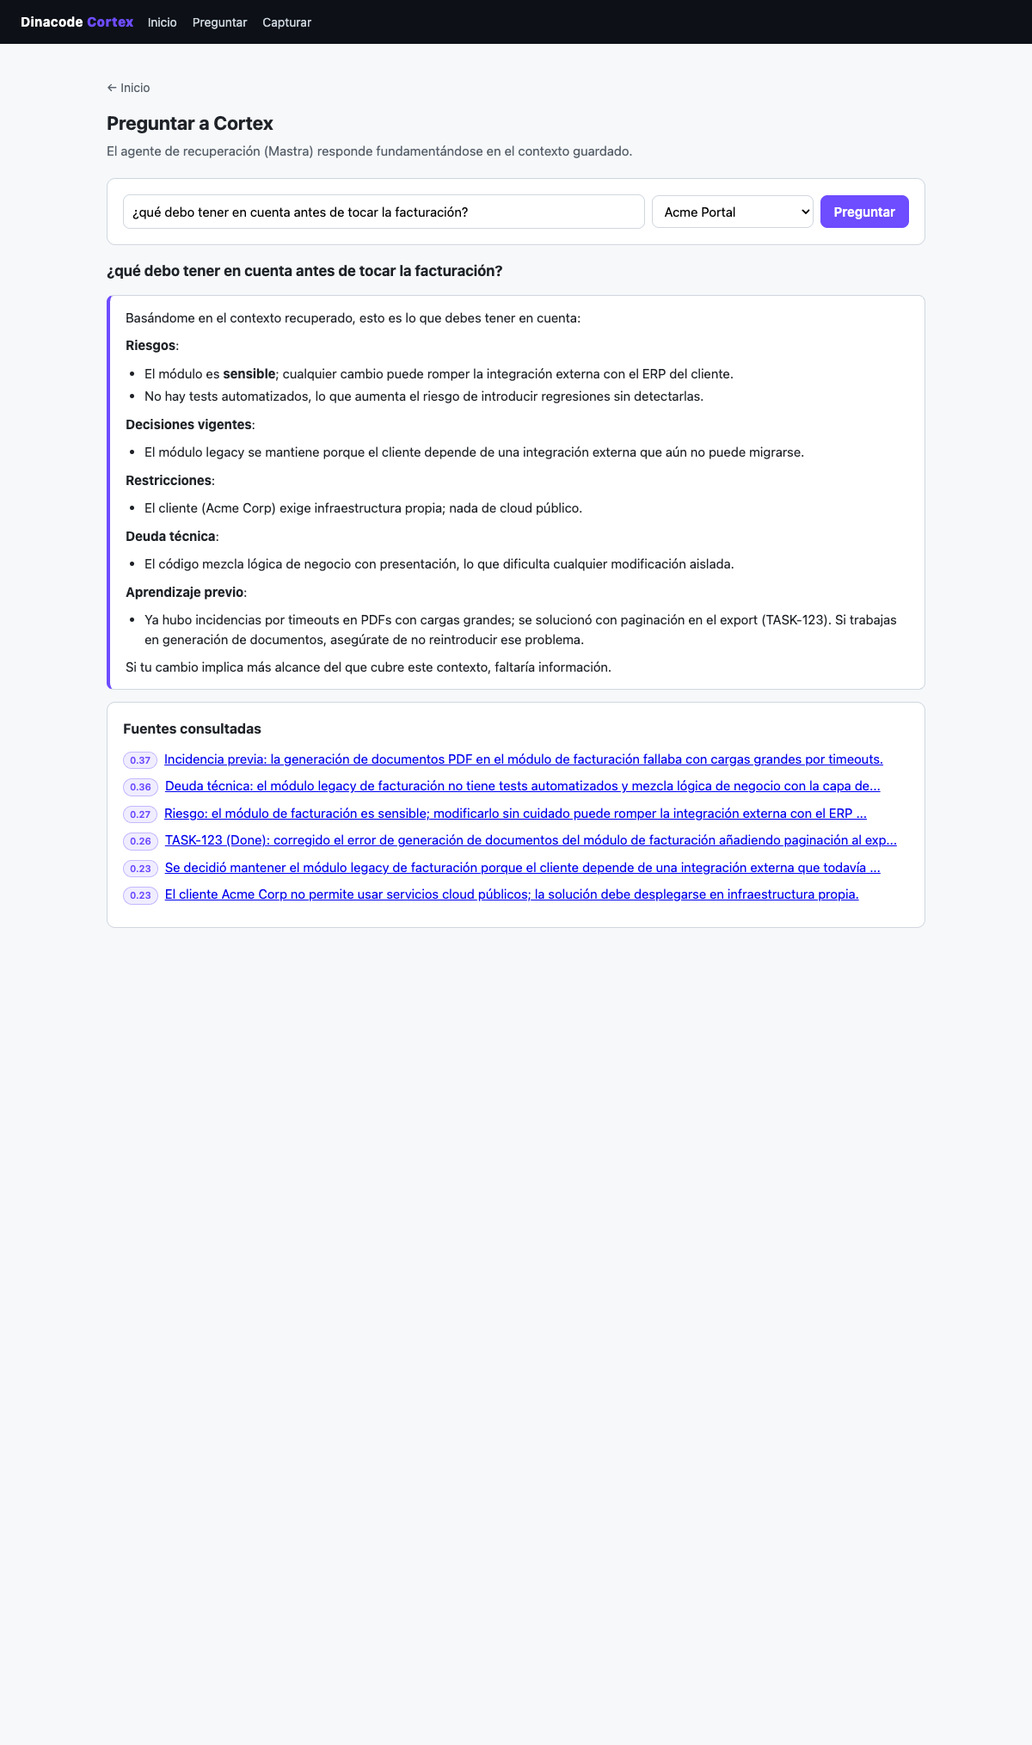
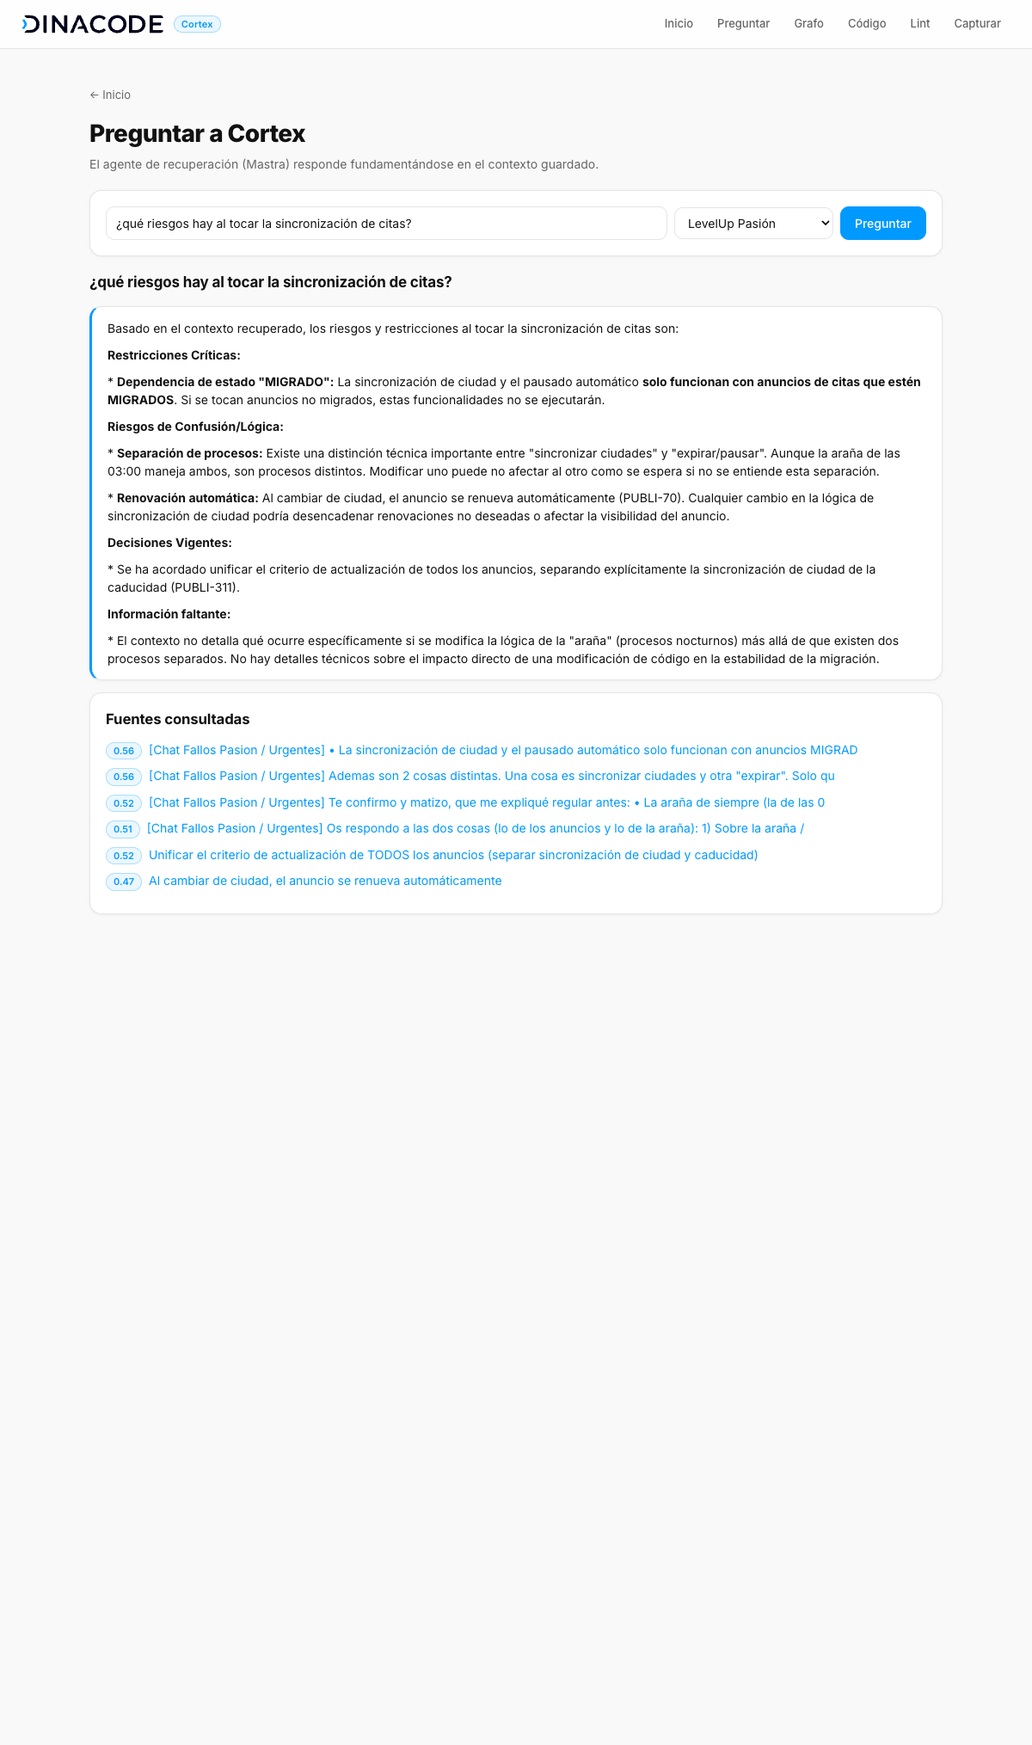
feat(web): aplicar el sistema de diseño de Dinacode a la UI
Tokens extraídos del Dinacode Design System (Open Design / dinacode-web):
azul eléctrico #0099ff, tinta de marca #01001c, Inter + JetBrains Mono, rampa de
radios/espaciado/sombras y componentes (cards, botones, chips, inputs). Cabecera
con el logo Dinacode + tag "Cortex", tema claro, lienzo del grafo en tinta de
marca. Acentos de score/relaciones al azul de marca. Capturas del README
regeneradas (dashboard, ask, grafo, lint, código, pack point-in-time);
eliminadas las obsoletas (Acme/estilo viejo). ADR-0013.

diff --git a/apps/web/src/views.ts b/apps/web/src/views.ts
@@ -33,6 +33,19 @@ export function mdLite(text: string): string {
   return out.join("\n");
 }
 
+// Logo de marca Dinacode (wordmark). Primer glifo en azul, resto en tinta de marca.
+const DINACODE_LOGO = `<svg viewBox="0 0 691.7 90.7" height="22" role="img" aria-label="Dinacode" style="display:block">
+<path fill="#0099FF" d="M8.1,25.9c-0.6-1.1,0.2-2.4,1.4-2.4H18c0.6,0,1.1,0.3,1.4,0.8L28.9,41c0.8,1.4,1.2,3,1.2,4.6s-0.4,3.2-1.2,4.6l-9.5,16.7c-0.3,0.5-0.8,0.8-1.4,0.8H9.5c-1.2,0-2-1.3-1.4-2.4l9.4-16.5c0.6-1,0.8-2.1,0.8-3.2c0-1.1-0.3-2.2-0.8-3.2L8.1,25.9z"/>
+<path fill="var(--brand-ink)" d="M111.1,3.6h12.1c0.9,0,1.6,0.7,1.6,1.6v80.4c0,0.9-0.7,1.6-1.6,1.6h-12.1c-0.9,0-1.6-0.7-1.6-1.6V5.2C109.5,4.3,110.2,3.6,111.1,3.6z"/>
+<path fill="var(--brand-ink)" d="M223.2,5.2v80.4c0,0.9-0.7,1.6-1.6,1.6h-10.2c-0.5,0-0.9-0.2-1.2-0.6L168,34.1c-0.9-1.2-2.8-0.5-2.8,1v50.4c0,0.9-0.7,1.6-1.6,1.6h-12c-0.9,0-1.6-0.7-1.6-1.6V5.2c0-0.9,0.7-1.6,1.6-1.6h10.2c0.5,0,0.9,0.2,1.2,0.6l42.1,52.5c0.9,1.2,2.8,0.5,2.8-1V5.2c0-0.9,0.7-1.6,1.6-1.6h12C222.5,3.6,223.2,4.3,223.2,5.2z"/>
+<path fill="var(--brand-ink)" d="M353.8,82.8c-6.7-3.7-12-8.8-15.8-15.3c-3.8-6.5-5.7-13.9-5.7-22.1c0-8.2,1.9-15.6,5.8-22.1c3.8-6.5,9.1-11.6,15.8-15.3c6.7-3.7,14.2-5.6,22.5-5.6c6.7,0,12.9,1.2,18.5,3.6c5.1,2.2,9.4,5.2,13.1,9.2c0.6,0.7,0.6,1.7-0.1,2.3l-7.6,7.3c-0.6,0.6-1.6,0.6-2.2,0c-5.8-5.8-12.7-8.7-20.9-8.7c-5.7,0-10.7,1.3-15.2,3.8c-4.5,2.5-8,6-10.5,10.4c-2.5,4.5-3.8,9.5-3.8,15.2c0,5.7,1.3,10.7,3.8,15.2c2.5,4.5,6,7.9,10.5,10.4c4.5,2.5,9.5,3.8,15.2,3.8c8.2,0,15.2-2.9,20.9-8.8c0.6-0.6,1.6-0.6,2.2,0l7.6,7.4c0.6,0.6,0.7,1.6,0.1,2.3c-3.6,4-8,7-13.1,9.2c-5.6,2.4-11.8,3.6-18.5,3.6C368,88.3,360.5,86.5,353.8,82.8z"/>
+<path fill="var(--brand-ink)" d="M440.7,82.8c-6.8-3.7-12-8.8-15.9-15.4c-3.8-6.6-5.8-13.9-5.8-22s1.9-15.5,5.8-22c3.8-6.6,9.1-11.7,15.9-15.4c6.7-3.7,14.3-5.6,22.7-5.6c8.4,0,16,1.9,22.7,5.6c6.7,3.7,12,8.8,15.9,15.3c3.8,6.5,5.8,13.9,5.8,22.1c0,8.2-1.9,15.6-5.8,22.1c-3.8,6.5-9.1,11.6-15.9,15.3c-6.8,3.7-14.3,5.6-22.7,5.6C455,88.3,447.5,86.5,440.7,82.8z M478.3,71c4.4-2.5,7.8-6,10.4-10.5c2.5-4.5,3.8-9.5,3.8-15.1c0-5.6-1.3-10.6-3.8-15.1c-2.5-4.5-6-8-10.4-10.5c-4.4-2.5-9.3-3.8-14.8-3.8c-5.5,0-10.4,1.3-14.8,3.8c-4.4,2.5-7.8,6-10.4,10.5c-2.5,4.5-3.8,9.5-3.8,15.1c0,5.6,1.3,10.6,3.8,15.1c2.5,4.5,6,8,10.4,10.5c4.4,2.5,9.3,3.8,14.8,3.8C468.9,74.7,473.9,73.5,478.3,71z"/>
+<path fill="var(--brand-ink)" d="M682.2,74c0,0-19.8,0-47,0c-0.9,0-1.6-0.7-1.6-1.6V52.7c0-0.9,0.7-1.6,1.6-1.6h36.6c0.9,0,1.6-0.7,1.6-1.6v-9.5c0-0.9-0.7-1.6-1.6-1.6h-36.6c-0.9,0-1.6-0.7-1.6-1.6V18.3c0-0.9,0.7-1.6,1.6-1.6c27.1,0,47,0,47,0c1.2,0,2-1.4,1.4-2.4l-3.5-6.1c-1.6-2.8-4.6-4.6-7.8-4.6l-52.4,0c-0.9,0-1.6,0.7-1.6,1.6v80.4c0,0.9,0.7,1.6,1.6,1.6h52.7l0,0c3.1-0.1,6-1.8,7.5-4.6l3.5-6.1C684.2,75.4,683.4,74,682.2,74z"/>
+<path fill="var(--brand-ink)" d="M325.2,85.4l-36-80.9c-0.3-0.6-0.8-1-1.5-1h-13.1c-0.6,0-1.2,0.4-1.5,1l-35.9,80.9c-0.5,1.1,0.3,2.3,1.5,2.3h12.4c0.6,0,1.2-0.4,1.5-1l27-64.1c0.6-1.3,2.4-1.3,2.9,0L296.7,56h-10.7c-5.9,0-11.1,3.5-13.5,9l-0.4,1c-0.5,1.1,0.3,2.3,1.5,2.3h28.2l7.9,18.5c0.3,0.6,0.8,1,1.5,1h12.6C324.9,87.7,325.7,86.5,325.2,85.4z"/>
+<path fill="var(--brand-ink)" d="M84.6,23.4c-3.8-6.3-9.1-11.2-15.9-14.7c-6.8-3.5-14.6-5.2-23.4-5.2H20.6c-1.3,0-2,1.4-1.3,2.5l4.6,7c1.5,2.2,4,3.6,6.6,3.6h14.1c6,0,11.4,1.2,15.9,3.5c4.6,2.3,8.1,5.7,10.6,10c2.5,4.3,3.7,9.4,3.7,15.1c0,5.7-1.2,10.8-3.7,15.1c-2.5,4.3-6,7.7-10.6,10C56,72.8,50.7,74,44.6,74H30.6c-2.7,0-5.1,1.3-6.6,3.6l-4.6,7c-0.7,1.1,0,2.5,1.3,2.5h24.7c8.8,0,16.6-1.7,23.4-5.2c6.8-3.5,12.1-8.4,15.9-14.7c3.8-6.3,5.7-13.6,5.7-21.9C90.3,37.1,88.4,29.8,84.6,23.4z"/>
+<path fill="var(--brand-ink)" d="M519.3,5.2c0-0.9,0.7-1.6,1.6-1.6h32.7c8.8,0,16.6,1.7,23.4,5.2c6.8,3.5,12.1,8.4,15.9,14.7c3.8,6.3,5.7,13.6,5.7,21.9c0,8.3-1.9,15.6-5.7,21.9c-3.8,6.3-9.1,11.2-15.9,14.7c-6.8,3.5-14.6,5.2-23.4,5.2h-32.7c-0.9,0-1.6-0.7-1.6-1.6V5.2z M552.9,74c6,0,11.4-1.2,15.9-3.5c4.6-2.3,8.1-5.7,10.6-10c2.5-4.3,3.7-9.4,3.7-15.1c0-5.7-1.2-10.8-3.7-15.1c-2.5-4.3-6-7.7-10.6-10c-4.6-2.3-9.9-3.5-15.9-3.5h-16.7c-0.9,0-1.6,0.7-1.6,1.6v54.1c0,0.9,0.7,1.6,1.6,1.6H552.9z"/>
+</svg>`;
+
 const STATUS_COLORS: Record<string, string> = {
   validated: "#1a7f37",
   verified: "#1a7f37",
@@ -41,10 +54,11 @@ const STATUS_COLORS: Record<string, string> = {
   rejected: "#cf222e",
   obsolete: "#6e7781",
   superseded: "#8250df",
+  historical: "#6e7781",
 };
 
 const TYPE_COLORS: Record<string, string> = {
-  decision: "#0969da",
+  decision: "#0099ff",
   constraint: "#9a6700",
   incident: "#cf222e",
   risk: "#bc4c00",
@@ -54,7 +68,7 @@ const TYPE_COLORS: Record<string, string> = {
 };
 
 export function badge(text: string, color: string): string {
-  return `<span class="badge" style="background:${color}1a;color:${color};border:1px solid ${color}55">${esc(text)}</span>`;
+  return `<span class="badge" style="background:${color}14;color:${color};border:1px solid ${color}44">${esc(text)}</span>`;
 }
 
 export function statusBadge(status: string): string {
@@ -88,54 +102,117 @@ export function layout(title: string, body: string): string {
   <meta charset="utf-8">
   <meta name="viewport" content="width=device-width, initial-scale=1">
   <title>${esc(title)} · Dinacode Cortex</title>
+  <link rel="preconnect" href="https://fonts.googleapis.com">
+  <link href="https://fonts.googleapis.com/css2?family=Inter:wght@400;500;600;700;800&family=JetBrains+Mono:wght@400;500;600&display=swap" rel="stylesheet">
   <style>
-    :root { --bg:#f6f8fa; --fg:#1f2328; --muted:#57606a; --line:#d0d7de; --accent:#6e4cff; }
-    * { box-sizing: border-box; }
-    body { margin:0; font:15px/1.5 -apple-system,BlinkMacSystemFont,"Segoe UI",Roboto,sans-serif; color:var(--fg); background:var(--bg); }
-    header { background:#0d1117; color:#fff; padding:14px 24px; display:flex; align-items:center; gap:16px; }
-    header .logo { font-weight:700; letter-spacing:.5px; }
-    header .logo b { color:var(--accent); }
-    header nav a { color:#c9d1d9; text-decoration:none; margin-right:14px; font-size:14px; }
-    header nav a:hover { color:#fff; }
-    main { max-width:1000px; margin:0 auto; padding:24px; }
-    h1 { font-size:22px; margin:0 0 4px; }
-    .sub { color:var(--muted); margin:0 0 20px; }
-    .grid { display:grid; grid-template-columns:repeat(auto-fill,minmax(280px,1fr)); gap:14px; }
-    .card { display:block; background:#fff; border:1px solid var(--line); border-radius:10px; padding:14px; text-decoration:none; color:inherit; transition:.1s; }
-    .card:hover { border-color:var(--accent); box-shadow:0 2px 10px #0001; }
-    .card h3 { margin:8px 0 6px; font-size:15px; }
-    .card p { margin:0; color:var(--muted); font-size:13px; display:-webkit-box; -webkit-line-clamp:3; -webkit-box-orient:vertical; overflow:hidden; }
-    .card .src { margin-top:8px; font-size:12px; color:var(--muted); }
-    .badge { display:inline-block; font-size:11px; padding:1px 7px; border-radius:20px; margin-right:4px; font-weight:600; }
+    /* === Dinacode Design System — tokens === */
+    :root {
+      --color-primary:#0099ff; --color-primary-hover:#0077cc; --brand-ink:#01001c;
+      --color-text:#111111; --color-text-muted:#666666; --color-muted:#999999;
+      --color-background:#ffffff; --color-background-muted:#f9f9f9; --color-border:#e5e5e5;
+      --primary-soft:color-mix(in srgb, var(--color-primary) 8%, var(--color-background));
+      --primary-ring:color-mix(in srgb, var(--color-primary) 45%, transparent);
+      --font-sans:"Inter",-apple-system,BlinkMacSystemFont,"Segoe UI",system-ui,sans-serif;
+      --font-mono:"JetBrains Mono",ui-monospace,SFMono-Regular,Menlo,monospace;
+      --radius-sm:6px; --radius-md:8px; --radius-lg:10px; --radius-xl:14px; --radius-2xl:18px; --radius-full:9999px;
+      --shadow-sm:0 1px 3px rgba(0,0,0,.05); --shadow-md:0 8px 24px -8px rgba(0,0,0,.12);
+      --shadow-pill:0 8px 24px -8px rgba(0,0,0,.12);
+      --ease-brand:cubic-bezier(.22,1,.36,1); --dur-fast:140ms;
+    }
+    * { box-sizing:border-box; }
+    body { margin:0; font-family:var(--font-sans); font-size:14px; line-height:1.5;
+      color:var(--color-text); background:var(--color-background-muted);
+      -webkit-font-smoothing:antialiased; -moz-osx-font-smoothing:grayscale; }
+    h1 { font-size:1.75rem; font-weight:800; letter-spacing:-0.02em; margin:0 0 4px; }
+    h2 { font-size:1.05rem; font-weight:700; letter-spacing:-0.01em; margin:0 0 12px; }
+    h3 { font-size:.95rem; font-weight:600; margin:8px 0 6px; }
+    p { text-wrap:pretty; }
+    a { color:var(--color-primary); text-decoration:none; text-underline-offset:2px; }
+    a:hover { color:var(--color-primary-hover); }
+    code,pre,kbd { font-family:var(--font-mono); }
+    :focus-visible { outline:none; box-shadow:0 0 0 3px var(--primary-ring); border-radius:var(--radius-sm); }
+    ::selection { background:color-mix(in srgb,var(--color-primary) 15%,transparent); }
+
+    /* === Header (nav glass, firma de marca) === */
+    header { position:sticky; top:0; z-index:10;
+      display:flex; align-items:center; gap:20px; padding:12px 24px;
+      background:color-mix(in srgb,var(--color-background) 80%,transparent);
+      backdrop-filter:blur(12px); -webkit-backdrop-filter:blur(12px);
+      border-bottom:1px solid var(--color-border); }
+    header .brand { display:flex; align-items:center; gap:10px; }
+    header .brand .logo { height:22px; }
+    header .brand .tag { font-size:11px; font-weight:600; color:var(--color-primary);
+      background:var(--primary-soft); border:1px solid color-mix(in srgb,var(--color-primary) 30%,transparent);
+      padding:1px 8px; border-radius:var(--radius-full); letter-spacing:.02em; }
+    header nav { display:flex; gap:4px; margin-left:auto; }
+    header nav a { color:var(--color-text-muted); font-size:13px; font-weight:500;
+      padding:6px 12px; border-radius:var(--radius-md); transition:all var(--dur-fast) var(--ease-brand); }
+    header nav a:hover { color:var(--color-text); background:var(--color-background-muted); }
+
+    main { max-width:1040px; margin:0 auto; padding:28px 24px 64px; }
+    .sub { color:var(--color-text-muted); margin:0 0 20px; }
+
+    /* === Cards & panels === */
+    .grid { display:grid; grid-template-columns:repeat(auto-fill,minmax(290px,1fr)); gap:14px; }
+    .card { display:block; background:var(--color-background); border:1px solid var(--color-border);
+      border-radius:var(--radius-xl); padding:16px; color:inherit; box-shadow:var(--shadow-sm);
+      transition:all var(--dur-fast) var(--ease-brand); }
+    .card:hover { border-color:var(--color-primary); box-shadow:var(--shadow-md); transform:translateY(-1px); }
+    .card h3 { margin:8px 0 6px; }
+    .card p { margin:0; color:var(--color-text-muted); font-size:13px;
+      display:-webkit-box; -webkit-line-clamp:3; -webkit-box-orient:vertical; overflow:hidden; }
+    .card .src { margin-top:8px; font-size:12px; color:var(--color-muted); }
     .card-head { margin-bottom:4px; }
-    .panel { background:#fff; border:1px solid var(--line); border-radius:10px; padding:18px; margin-bottom:18px; }
-    .panel h2 { margin:0 0 12px; font-size:16px; }
+    .panel { background:var(--color-background); border:1px solid var(--color-border);
+      border-radius:var(--radius-xl); padding:18px; margin-bottom:18px; box-shadow:var(--shadow-sm); }
+
+    /* === Badges / chips === */
+    .badge { display:inline-block; font-size:11px; padding:1px 8px; border-radius:var(--radius-full);
+      margin-right:4px; font-weight:600; }
+
+    /* === Forms === */
     form.row { display:flex; gap:8px; flex-wrap:wrap; align-items:center; }
-    input[type=text], select, textarea { font:inherit; padding:8px 10px; border:1px solid var(--line); border-radius:8px; background:#fff; }
-    input[type=text] { flex:1; min-width:200px; }
-    textarea { width:100%; min-height:80px; }
-    button { font:inherit; font-weight:600; padding:8px 16px; border:0; border-radius:8px; background:var(--accent); color:#fff; cursor:pointer; }
-    button.secondary { background:#eaeef2; color:var(--fg); }
+    input[type=text],input[type=date],select,textarea { font:inherit; padding:8px 11px;
+      border:1px solid var(--color-border); border-radius:var(--radius-lg); background:var(--color-background);
+      color:var(--color-text); }
+    input[type=text] { flex:1; min-width:220px; }
+    input::placeholder { color:var(--color-muted); }
+    input:focus-visible,select:focus-visible,textarea:focus-visible { border-color:var(--color-primary); box-shadow:0 0 0 3px var(--primary-ring); }
+    textarea { width:100%; min-height:84px; font-family:var(--font-sans); }
+    button { font:inherit; font-weight:500; padding:8px 16px; border:1px solid transparent;
+      border-radius:var(--radius-lg); background:var(--color-primary); color:#fff; cursor:pointer;
+      transition:all var(--dur-fast) var(--ease-brand); }
+    button:hover { background:var(--color-primary-hover); }
+    button:active { transform:translateY(1px); }
+    button.secondary { background:var(--color-background); color:var(--color-text); border-color:var(--color-border); }
+    button.secondary:hover { background:var(--color-background-muted); }
+
+    /* === Misc === */
     .meta { display:grid; grid-template-columns:140px 1fr; gap:6px 12px; margin:14px 0; }
-    .meta dt { color:var(--muted); }
-    .content-block { white-space:pre-wrap; background:var(--bg); border:1px solid var(--line); border-radius:8px; padding:14px; }
-    .answer { background:#fff; border:1px solid var(--line); border-left:4px solid var(--accent); border-radius:8px; padding:4px 18px; margin:14px 0; }
-    .answer p { margin:10px 0; }
+    .meta dt { color:var(--color-text-muted); }
+    .content-block { white-space:pre-wrap; background:var(--color-background-muted);
+      border:1px solid var(--color-border); border-radius:var(--radius-md); padding:14px; font-family:var(--font-mono); font-size:13px; }
+    .answer { background:var(--color-background); border:1px solid var(--color-border);
+      border-left:3px solid var(--color-primary); border-radius:var(--radius-xl); padding:4px 18px; margin:14px 0; box-shadow:var(--shadow-sm); }
+    .answer p { margin:10px 0; color:var(--color-text); }
     .answer ul { margin:10px 0; padding-left:22px; }
     .answer li { margin:4px 0; }
-    .warn { background:#fff8c5; border:1px solid #d4a72c66; border-radius:8px; padding:12px; margin:10px 0; }
-    .warn.contradiction { background:#ffebe9; border-color:#cf222e66; }
-    .tags a { font-size:13px; color:var(--accent); text-decoration:none; margin-right:10px; }
+    .warn { background:#fff8e6; border:1px solid #d4a72c55; border-radius:var(--radius-md); padding:12px; margin:10px 0; }
+    .warn.contradiction { background:#ffeceb; border-color:#cf222e55; }
+    .tags a { font-size:13px; color:var(--color-primary); margin-right:10px; }
     .filters { margin-bottom:16px; }
-    .pill { display:inline-block; padding:3px 12px; border:1px solid var(--line); border-radius:20px; text-decoration:none; color:var(--muted); font-size:13px; margin:0 4px 4px 0; background:#fff; }
-    .pill.active { background:var(--accent); color:#fff; border-color:var(--accent); }
-    .empty { color:var(--muted); padding:20px; text-align:center; }
-    a.back { color:var(--muted); text-decoration:none; font-size:14px; }
+    .pill { display:inline-block; padding:4px 12px; border:1px solid var(--color-border); border-radius:var(--radius-full);
+      color:var(--color-text-muted); font-size:13px; margin:0 4px 4px 0; background:var(--color-background); transition:all var(--dur-fast) var(--ease-brand); }
+    .pill:hover { border-color:var(--color-primary); color:var(--color-text); }
+    .pill.active { background:var(--color-primary); color:#fff; border-color:var(--color-primary); }
+    .empty { color:var(--color-text-muted); padding:24px; text-align:center;
+      background:var(--color-background); border:1px dashed var(--color-border); border-radius:var(--radius-xl); }
+    a.back { color:var(--color-text-muted); font-size:13px; }
   </style>
 </head>
 <body>
   <header>
-    <span class="logo">Dinacode <b>Cortex</b></span>
+    <span class="brand"><span class="logo">${DINACODE_LOGO}</span><span class="tag">Cortex</span></span>
     <nav>
       <a href="/">Inicio</a>
       <a href="/ask">Preguntar</a>

diff --git a/apps/web/src/index.ts b/apps/web/src/index.ts
@@ -126,7 +126,7 @@ app.get("/search", async (c) => {
         .map(
           (h) =>
             `<a class="card" href="/entry/${esc(h.entry.id)}">
-              <div class="card-head">${badge(h.score.toFixed(2), "#6e4cff")} ${typeBadge(h.entry.type)} ${statusBadge(h.entry.status)}</div>
+              <div class="card-head">${badge(h.score.toFixed(2), "#0099ff")} ${typeBadge(h.entry.type)} ${statusBadge(h.entry.status)}</div>
               <h3>${esc(h.entry.title)}</h3>
               <p>${esc(h.entry.summary ?? h.entry.content)}</p>
             </a>`,
@@ -252,7 +252,7 @@ app.get("/ask", async (c) => {
     );
     const sources = hits.length
       ? `<div class="panel"><h2>Fuentes consultadas</h2>${hits
-          .map((h) => `<div style="margin-bottom:8px">${badge(h.score.toFixed(2), "#6e4cff")} <a href="/entry/${esc(h.entry.id)}">${esc(h.entry.title)}</a></div>`)
+          .map((h) => `<div style="margin-bottom:8px">${badge(h.score.toFixed(2), "#0099ff")} <a href="/entry/${esc(h.entry.id)}">${esc(h.entry.title)}</a></div>`)
           .join("")}</div>`
       : `<div class="empty">Sin contexto relevante.</div>`;
     answerHtml = answer
@@ -317,7 +317,7 @@ app.get("/pack", async (c) => {
     ${sec("Deuda técnica", pack.technicalDebt)}
     ${sec("Convenciones", pack.conventions)}
     ${pack.sensitiveModules.length ? `<div class="panel"><h2>Módulos sensibles</h2>${pack.sensitiveModules.map((m) => badge(m, "#bc4c00")).join(" ")}</div>` : ""}
-    ${pack.relevantToArea.length ? `<div class="panel"><h2>Relevante para "${esc(area ?? "")}"</h2>${pack.relevantToArea.map((h) => `<div style="margin-bottom:8px">${badge(h.score.toFixed(2), "#6e4cff")} ${esc(h.entry.title)}</div>`).join("")}</div>` : ""}
+    ${pack.relevantToArea.length ? `<div class="panel"><h2>Relevante para "${esc(area ?? "")}"</h2>${pack.relevantToArea.map((h) => `<div style="margin-bottom:8px">${badge(h.score.toFixed(2), "#0099ff")} ${esc(h.entry.title)}</div>`).join("")}</div>` : ""}
   `;
   return c.html(layout(`Context Pack: ${pack.project}`, body));
 });
@@ -338,7 +338,7 @@ app.get("/code", async (c) => {
       ? hits
           .map((h) => {
             const body = h.content.startsWith("// ") ? h.content.slice(h.content.indexOf("\n") + 1) : h.content;
-            return `<div class="panel"><div class="card-head">${badge(h.score.toFixed(2), "#6e4cff")} <b>${esc(h.path)}</b> <span class="sub">:${h.startLine}-${h.endLine} · ${esc(h.language ?? "")}</span></div><pre class="content-block" style="overflow:auto"><code>${esc(body)}</code></pre></div>`;
+            return `<div class="panel"><div class="card-head">${badge(h.score.toFixed(2), "#0099ff")} <b>${esc(h.path)}</b> <span class="sub">:${h.startLine}-${h.endLine} · ${esc(h.language ?? "")}</span></div><pre class="content-block" style="overflow:auto"><code>${esc(body)}</code></pre></div>`;
           })
           .join("")
       : `<div class="empty">Sin resultados. ¿Has indexado el repo? (pnpm --filter @cortex/core index-code)</div>`;
@@ -427,17 +427,17 @@ app.get("/graph", async (c) => {
         </label>
         <button type="submit">Ver</button>
       </form>
-      <div id="legend" style="margin-top:10px;font-size:12px;color:var(--muted)"></div>
+      <div id="legend" style="margin-top:10px;font-size:12px;color:var(--color-text-muted)"></div>
     </div>
-    <div id="net" style="height:72vh;background:#0d1117;border:1px solid var(--line);border-radius:10px"></div>
+    <div id="net" style="height:72vh;background:var(--brand-ink);border:1px solid var(--color-border);border-radius:10px"></div>
     <script src="https://unpkg.com/vis-network@9.1.9/standalone/umd/vis-network.min.js"></script>
     <script>
       const COLORS = {
         client:"#cf222e", project:"#8250df", service:"#0969da", integration:"#1f883d",
         vendor:"#bf3989", technology:"#9a6700", module:"#bc4c00", person:"#57606a",
-        decision:"#0a7ea4", incident:"#d1242f", repository:"#6e4cff",
+        decision:"#0a7ea4", incident:"#d1242f", repository:"#0099ff",
       };
-      const entryColor = "#30363d";
+      const entryColor = "#33415e";
       function colorFor(group){
         if(group && group.startsWith("entry:")) return entryColor;
         return COLORS[group] || "#768390";
@@ -460,7 +460,7 @@ app.get("/graph", async (c) => {
         const edges = g.edges.map(e => ({
           from:e.from, to:e.to, label: e.kind==="relation"? e.label : undefined,
           arrows: e.kind==="relation"?"to":undefined,
-          color:{color: e.kind==="relation"?"#6e4cff88":"#ffffff14"},
+          color:{color: e.kind==="relation"?"#0099ff88":"#ffffff14"},
           font:{color:"#8b949e", size:9, strokeWidth:0},
           dashes: e.kind==="mention",
         }));

diff --git a/docs/decisions.md b/docs/decisions.md
@@ -178,3 +178,19 @@ Formato: estado · contexto · decisión · alternativas · cuándo revisar.
   "ganador" claro) — el lint las reporta para revisión humana.
 - **Revisar cuando:** queramos decay adaptativo (por velocity/volatility) o
   invalidación por recencia en contradicciones.
+
+## ADR-0013 · UI con el sistema de diseño de Dinacode
+
+- **Estado:** aceptada (demo).
+- **Contexto:** la UI usaba una paleta genérica (morado/oscuro). Dinacode tiene un
+  design system en Open Design (`Dinacode Design System`, vinculado a
+  `dinacode-web`).
+- **Decisión:** aplicar los tokens del DS a la UI web (`apps/web/src/views.ts`):
+  azul eléctrico `#0099ff`, tinta de marca `#01001c`, tipografías Inter +
+  JetBrains Mono, rampa de radios/espaciado/sombras y componentes (cards, botones,
+  chips, inputs) del DS. Cabecera con el logo Dinacode + tag "Cortex". Tema claro;
+  lienzo del grafo en tinta de marca. Capturas del README regeneradas.
+- **Fuente:** Open Design (`colors_and_type.css`, `DESIGN.md`, `assets/logo.svg`),
+  extraído de `dinacode-web/src/app/globals.css`.
+- **Revisar cuando:** queramos modo oscuro conmutable o extraer los tokens a un
+  paquete compartido (`@cortex/ui`).

diff --git a/README.md b/README.md
@@ -20,7 +20,6 @@ Decisiones técnicas (hipótesis a validar): [`docs/decisions.md`](./docs/decisi
 ![Lint del conocimiento](./docs/screenshot-lint.png)
 ![Búsqueda de código](./docs/screenshot-code.png)
 ![Context pack point-in-time (bi-temporal)](./docs/screenshot-pack-pointintime.png)
-![Context pack](./docs/screenshot-context-pack.png)
 
 ## Arquitectura (demo)
 
